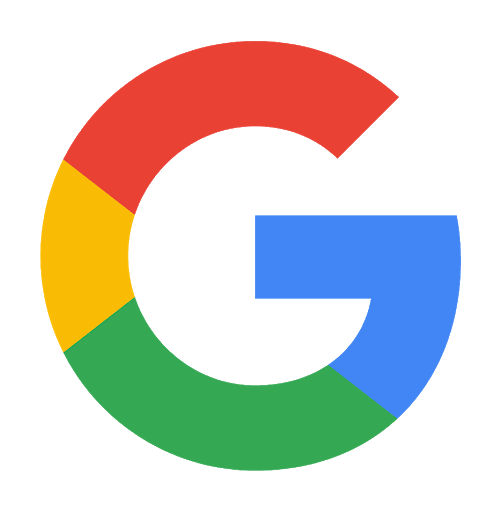
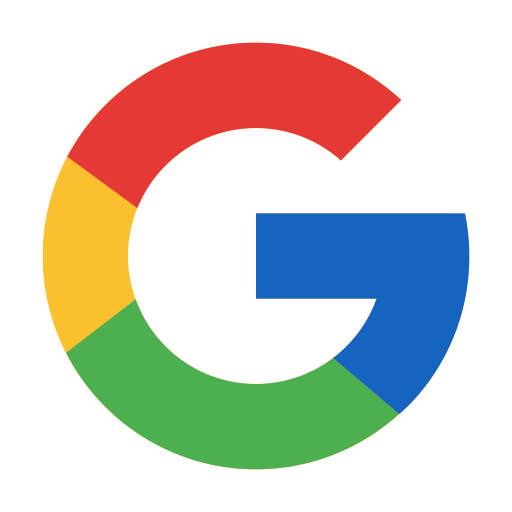
adding some front end improvements

diff --git a/client/src/components/Layout/Header/Navigation/MobileNavigation.js b/client/src/components/Layout/Header/Navigation/MobileNavigation.js
@@ -11,7 +11,7 @@ import LogoutOutlinedIcon from "@mui/icons-material/LogoutOutlined";
 import { logoutHandler } from "../../../../utils/auth";
 import ClipLoader from "react-spinners/ClipLoader";
 
-import mobileLogo from "../../../../images/logo-mobile.png";
+import { ReactComponent as BlackLogo } from "../../../../images/logo-black.svg";
 
 import classes from "./MobileNavigation.module.css";
 import SideModal from "../../../UI/SideModal";
@@ -38,7 +38,9 @@ const MobileNavigation = ({ isOpened, onClose }) => {
     <SideModal isOpened={isOpened} onClose={onClose} onlyMobile>
       <div className={classes.navigation_menu}>
         <header>
-          <img src={mobileLogo} alt="logo" />
+          <Link to="/">
+            <BlackLogo />
+          </Link>
         </header>
         <ul className={classes.product_links}>
           {navLinks.map((link) => (

diff --git a/client/src/components/Layout/Header/index.js b/client/src/components/Layout/Header/index.js
@@ -7,8 +7,7 @@ import UtilityNavigation from "./Navigation/UtilityNavigation";
 
 import MenuSharpIcon from "@mui/icons-material/MenuSharp";
 
-import pcLogo from "../../../images/logo-pc.png";
-import mobileLogo from "../../../images/logo-mobile.png";
+import { ReactComponent as BlackLogo } from "../../../images/logo-black.svg";
 
 import classes from "./Header.module.css";
 
@@ -60,11 +59,7 @@ const Header = () => {
         </button>
         <div className={classes.logo}>
           <Link to="/">
-            <picture>
-              <source srcSet={mobileLogo} media="(max-width : 959px)" />
-              <source srcSet={pcLogo} media="(min-width : 960px)" />
-              <img src={pcLogo} alt="logo" />
-            </picture>
+            <BlackLogo />
           </Link>
         </div>
       </div>

diff --git a/client/src/components/Layout/Header/Navigation/MobileNavigation.module.css b/client/src/components/Layout/Header/Navigation/MobileNavigation.module.css
@@ -11,6 +11,11 @@
   border-bottom: 1px solid #ddd;
 }
 
+.navigation_menu header a {
+  display: flex;
+  width: 120px;
+}
+
 .navigation_menu ul a,
 .navigation_menu ul .logout {
   display: flex;
@@ -39,13 +44,9 @@
 .navigation_menu ul.product_links {
   background: #f5f5f5;
   text-transform: uppercase;
-  padding-bottom: 10px;
+  padding: 10px 0;
 }
 
-.navigation_menu ul.product_links li:first-of-type a {
-  padding-top: 20px;
-}
-
-.navigation_menu ul:last-of-type li:first-of-type a {
-  padding-top: 15px;
+.navigation_menu ul:not(.product_links) {
+  padding-top: 10px;
 }

diff --git a/client/src/components/Layout/Header/Header.module.css b/client/src/components/Layout/Header/Header.module.css
@@ -51,23 +51,17 @@
 .header .header_left .logo a {
   display: flex;
   align-items: center;
-  width: 150px;
-}
-
-.header .header_left .logo img {
-  display: block;
-  width: 100%;
-  image-rendering: -webkit-optimize-contrast;
+  width: 148.38px;
 }
 
 @media (max-width: 1600px) {
   .header .header_left .logo a {
-    width: 125px;
+    width: 140px;
   }
 }
 
 @media (max-width: 991.98px) {
   .header .header_left .logo a {
-    width: 100px;
+    width: 110px;
   }
 }

diff --git a/client/src/components/Layout/Footer/Footer.module.css b/client/src/components/Layout/Footer/Footer.module.css
@@ -101,9 +101,15 @@
 
 .footer .footer_section ul a {
   margin-left: 5px;
-  font-size: 1rem;
+  font-size: 0.95rem;
   letter-spacing: 0.5px;
   font-family: "Petrona", serif;
+}
+
+@media (max-width: 991.8px) {
+  .footer .footer_section ul a {
+    font-size: 1rem;
+  }
 }
 
 .footer .footer_section > p {

diff --git a/client/src/components/UI/SideModal/SideModal.module.css b/client/src/components/UI/SideModal/SideModal.module.css
@@ -31,7 +31,6 @@
   background: #212121;
   border: none;
   cursor: pointer;
-  box-shadow: 0px 1px 8px rgb(255 255 255 / 20%);
 }
 
 .side_modal .children_wrapper {
